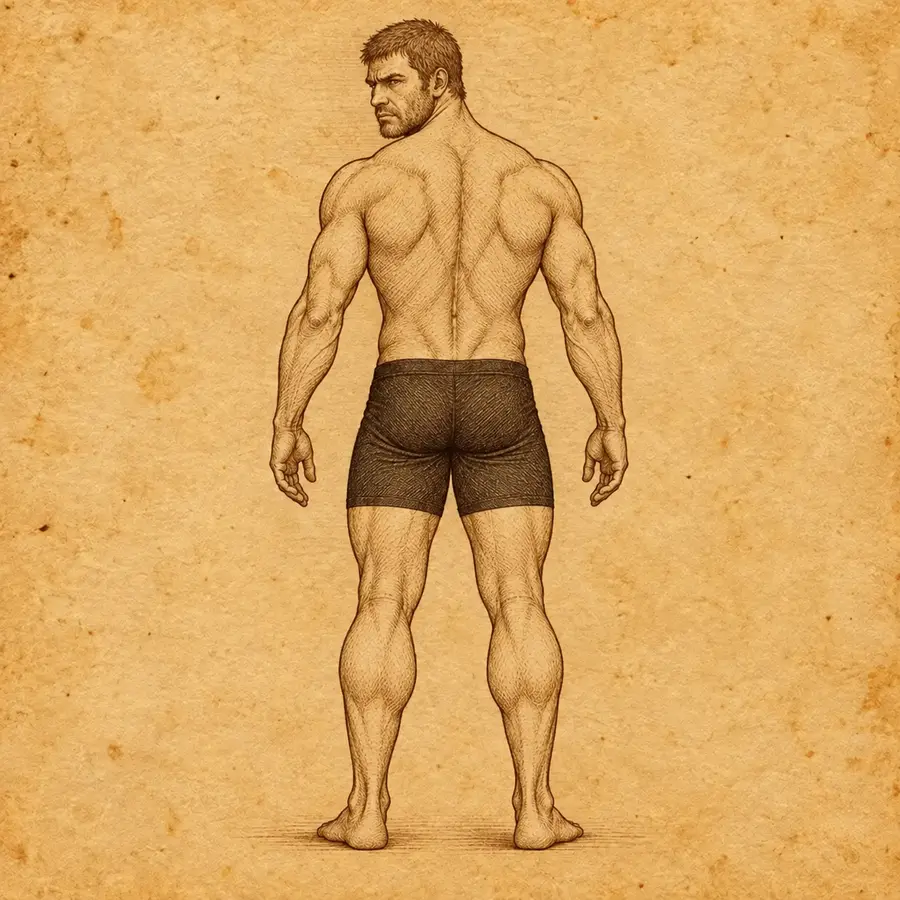
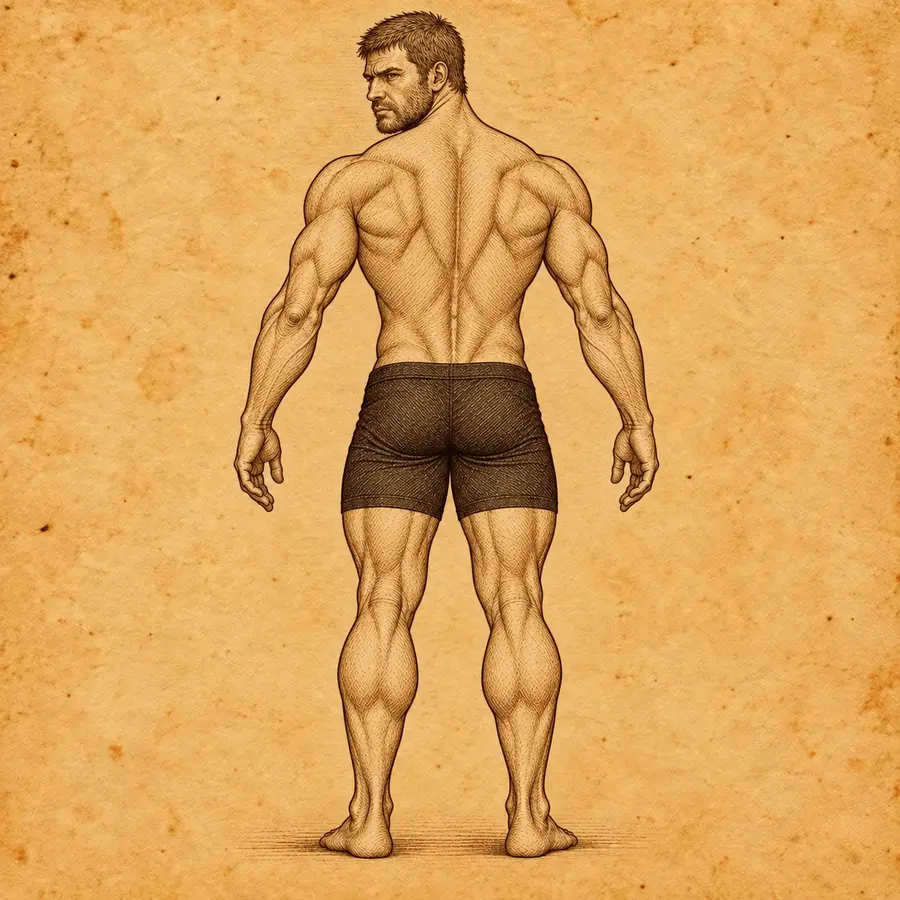
Correct rear atlas anatomy and enlarge mobile plate

diff --git a/index.html b/index.html
@@ -76,7 +76,7 @@
     .atlas-note-label{fill:#3f2b1d;font:italic 700 4.25px "Segoe Script","Lucida Handwriting","Apple Chancery",cursive;letter-spacing:.02em;paint-order:stroke;stroke:rgba(238,222,184,.96);stroke-width:1.55px;stroke-linejoin:round}
     .atlas-view-badge{position:absolute;top:12px;right:12px;z-index:4;border:1px solid var(--line);background:rgba(238,222,184,.9);padding:6px 8px;color:var(--red);font:800 8px Arial,sans-serif;letter-spacing:.14em;text-transform:uppercase}
     .atlas-image:before{z-index:3}.atlas-image figcaption{z-index:4}
-    @media(max-width:850px){.atlas-figure-stage{padding:2px}.atlas-character-frame{width:108%}.atlas-note-label{font-size:4.8px}}
+    @media(max-width:850px){.atlas-image{min-height:600px}.atlas-figure-stage{padding:0;overflow:hidden}.atlas-character-frame{width:145%;max-width:none}.atlas-note-label{font-size:4.8px}}
   </style>
   <style id="masculine-ui-refinement">
     :root{

diff --git a/service-worker.js b/service-worker.js
@@ -1,4 +1,4 @@
-const CACHE_NAME = 'muscle-codex-shell-v5';
+const CACHE_NAME = 'muscle-codex-shell-v6';
 const APP_FILES = [
   './manifest.webmanifest',
   './icons/favicon-32.png',
